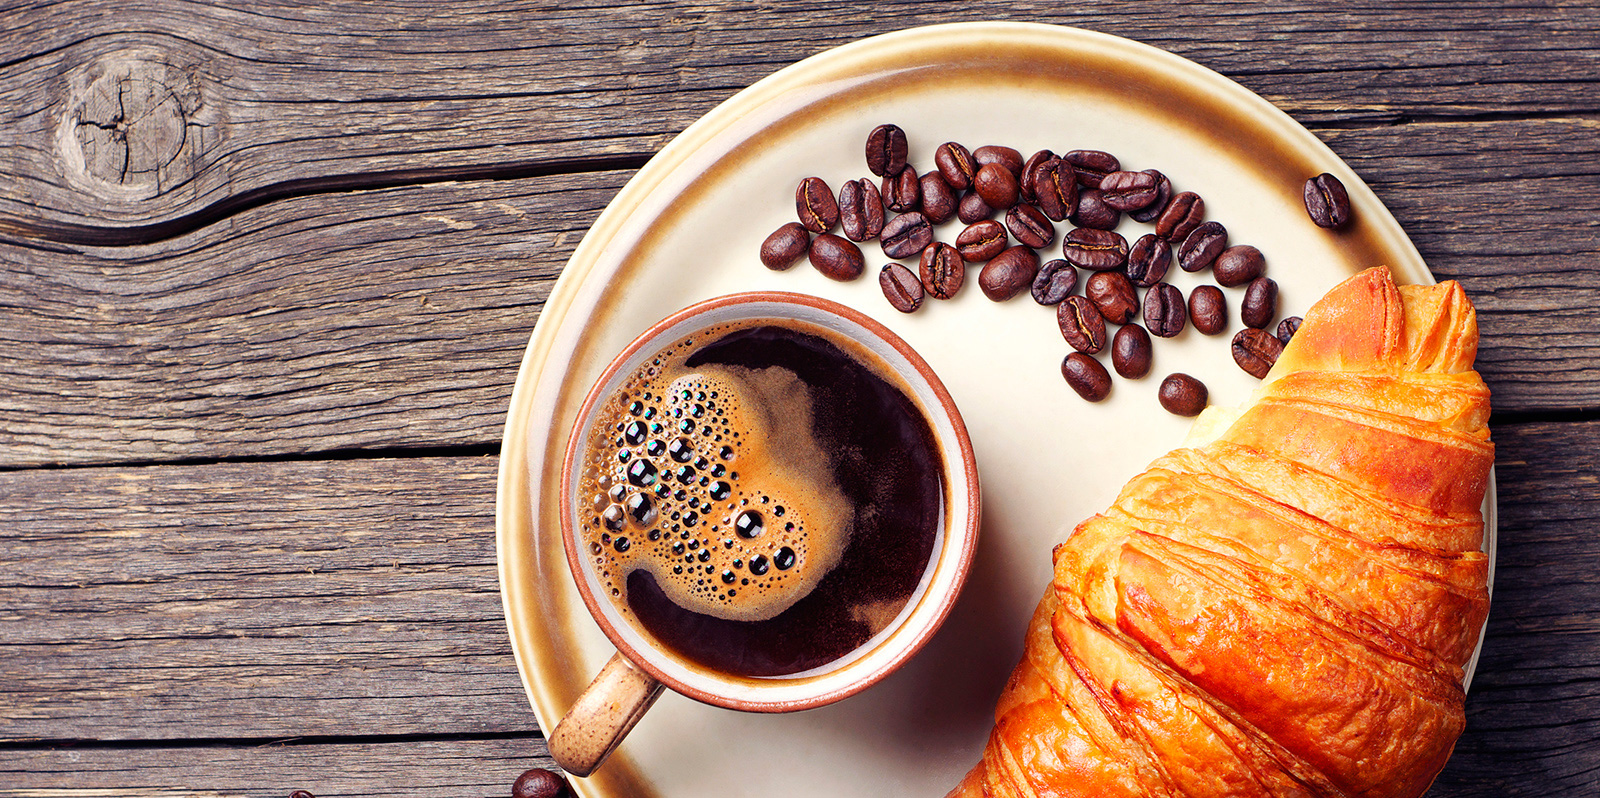
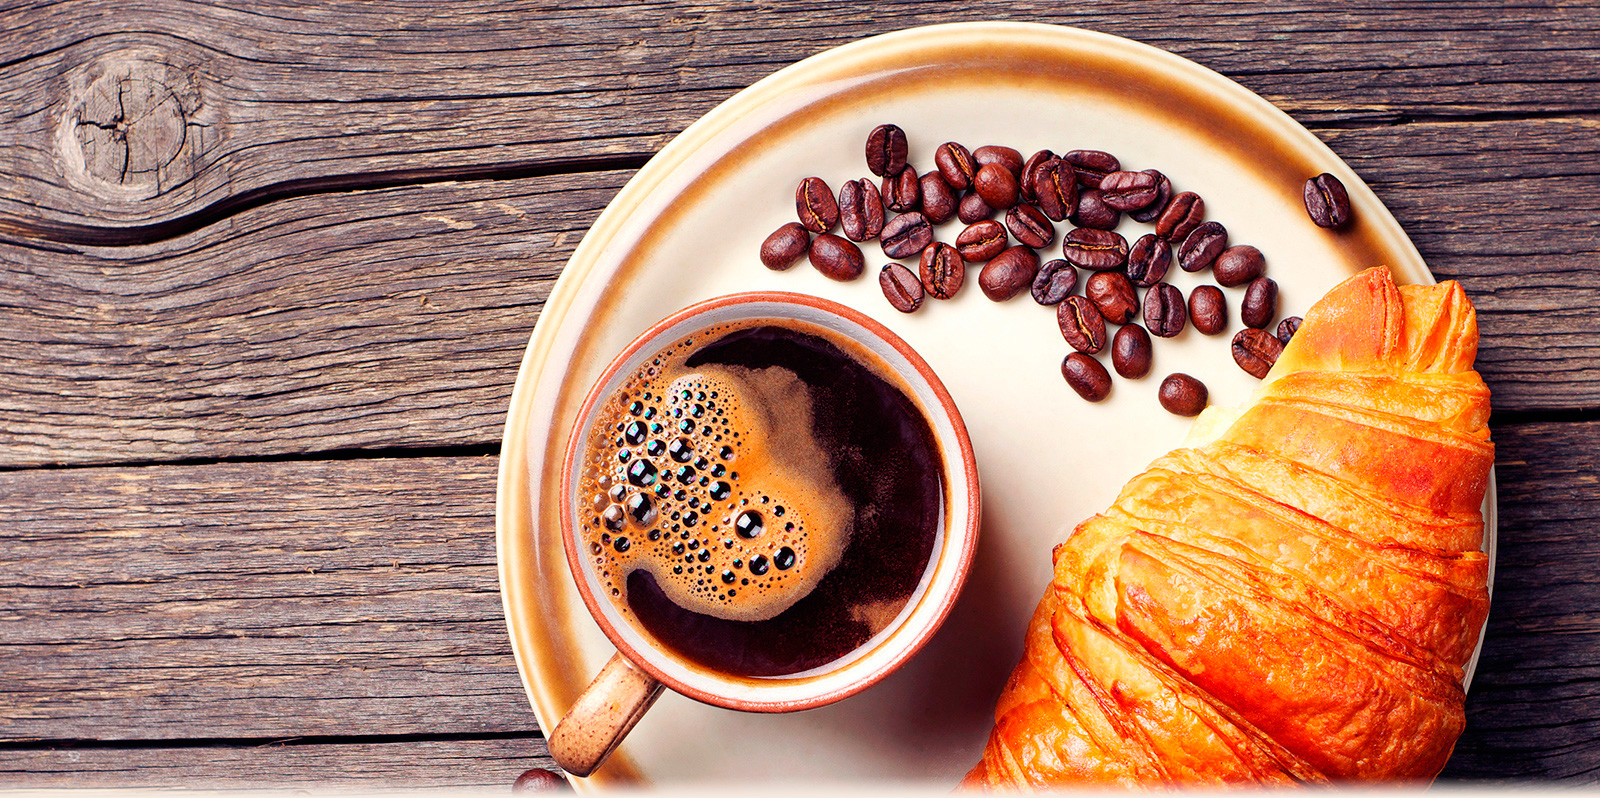
KW-368 redesign Login form

diff --git a/Content/css/backendcss/default.css b/Content/css/backendcss/default.css
@@ -49,6 +49,10 @@ h2 {
     color: #d85e17;
 }
 
+h2 span.title-notice {
+    font-size: 0.5em;
+}
+
 h3 {
 	font-size: 18px;
 	line-height: 25px;
@@ -292,6 +296,10 @@ html.iframe-body body {
 
 #main-container {
     min-height: 100%;
+}
+
+#main-container.login-page {
+    height: 100%;
 }
 
 .footer-clear {
@@ -620,9 +628,62 @@ input[type="submit"].btn:hover, input[type="button"].btn:hover, input[type="subm
 
 /*Login section*/
 
+
+.login-page {
+    background: url(/Content/img/backgrounds/background_coffee.jpg) no-repeat fixed 50% 0;
+    background-size: 115%;
+    border-bottom: 0 none;   
+}
+
+.login-page .site-header {
+    background-image: none;
+}
+
 .login-section {
     margin: 0 auto;
     float: none;    
+}
+
+.login-section .wrapper {
+    padding: 15px;
+    background: url(/Content/img/backgrounds/login-wrapper-bg.png);
+    border: 5px solid #fff;
+    -webkit-box-shadow: 0 3px 3px 0 #5e5e5e;
+    -moz-box-shadow: 0 3px 3px 0 #5e5e5e;
+    box-shadow: 0 3px 3px 0 #5e5e5e;        
+}
+
+.login-section .wrapper h2 {
+    color: #333;
+    margin: 0;
+    padding-bottom: 10px;
+    font-size: 2em;    
+}
+
+.login-section .custom-form {
+    padding: 15px 0 0;
+}
+
+.login-section .custom-form .form-group.login-fields {
+    margin-bottom: 0;
+}
+
+.login-section .custom-form input[type="text"], .login-section .custom-form input[type="password"] {
+    background: #f2e9df;
+}
+
+.login-section .custom-form input[type="text"]:hover, .login-section .custom-form input[type="text"]:focus, .login-section .custom-form input[type="password"]:hover, .login-section .custom-form input[type="password"]:focus {
+    background: #f2dfc9;
+}
+
+.login-section .custom-form input:-webkit-autofill {
+    -webkit-box-shadow: 0 0 0px 1000px #f2e9df inset;
+    -webkit-text-fill-color: #333;
+}
+
+.login-section .custom-form input:-webkit-autofill:focus {
+    -webkit-box-shadow: 0 0 0px 1000px #f2dfc9 inset;
+    -webkit-text-fill-color: #333;
 }
 
 /*Registration section*/
@@ -1246,7 +1307,7 @@ today-calendar-tbl .first-col {
 
 /*Users section styles*/
 
-/*Responsive Styles*/
+/*Responsive Styles*/        
 
 @media screen and (max-width: 767px) {
 
@@ -1270,8 +1331,18 @@ today-calendar-tbl .first-col {
 	.site-header .mmenu ul li a:hover {
 		border: 0 none;
 	}
+
+    
+    .login-page h2 > span {
+        display: block;
+    }
 }           
 
+@media screen and (min-width: 991px) and (max-width: 1200px) {
+    .login-page .login-section.col-md-5 {
+        width: 55%;
+    }
+}
 
 @media screen and (min-width: 1200px) {
     .container {
@@ -1291,6 +1362,14 @@ today-calendar-tbl .first-col {
 
 @media screen and (max-width: 991px) {
 
+    .login-page {
+        background-size: cover;
+    }
+
+    .login-page .container {
+        max-width: 100%;
+    }           
+
     .table-with-action tr td:last-child button {
 	    font-size: 0;
     }   
@@ -1301,9 +1380,9 @@ today-calendar-tbl .first-col {
     }
 }
 
-@media screen and (min-width: 768px) and (max-width: 991px) {
-
-	.site-header .mmenu {
+@media screen and (min-width: 768px) and (max-width: 991px) {      
+	
+    .site-header .mmenu {
 		padding-top: 20px;
 	}
 
@@ -1312,6 +1391,7 @@ today-calendar-tbl .first-col {
 		line-height: 10px;
 		padding: 10px;
 	}
+
 }	
 
 /* Responsive: Portrait tablets and up */

diff --git a/Content/js/custom.js b/Content/js/custom.js
@@ -1,28 +1,21 @@
-$(document).ready(function () {
-
-	var bgHeight = $(window).height() - $('.body-content').height() - $('.site-footer').height() - $('.site-header-wrap').height() - 21;
+$(document).ready(function () {          
+    var containerHeight, loginFormTop 
+    getLogiTop();
 	if ($('#loginform').length > 0) {
-		$('.site-header').addClass('login-bg');
+	    $('#main-container').addClass('login-page');
 		$(window).resize(function () {
-			bgHeight = $(window).height() - $('.body-content').height() - $('.site-footer').height() - $('.site-header-wrap').height() - 21;
-			if (bgHeight <= 100) {
-				bgHeight = 100;
-			}
-			showLogo();
-			$('.site-header').css('padding-bottom', bgHeight);
-		});
-		$('.site-header').css('padding-bottom', bgHeight);
-	} else {
-		$('.site-header').removeClass('login-bg');
+		    getLogiTop();
+		});   
+	} else {    
+	    $('#main-container').removeClass('login-page');
 	}
-	showLogo();
 	
 });
 
-function showLogo() {
-	if ($(window).height() <= 768) {
-		$('.login-bg .logotext').fadeOut();
-	} else {
-		$('.login-bg .logotext').fadeIn();
-	}
+function getLogiTop() {
+    containerHeight = $(window).height() - $('.site-footer').height() - $('.site-header-wrap').height() - 30;
+    loginFormTop = (containerHeight - $('.login-section').height()) / 2;
+    if (loginFormTop > 0) {
+        $('.login-section').css('margin-top', loginFormTop)
+    }
 }
